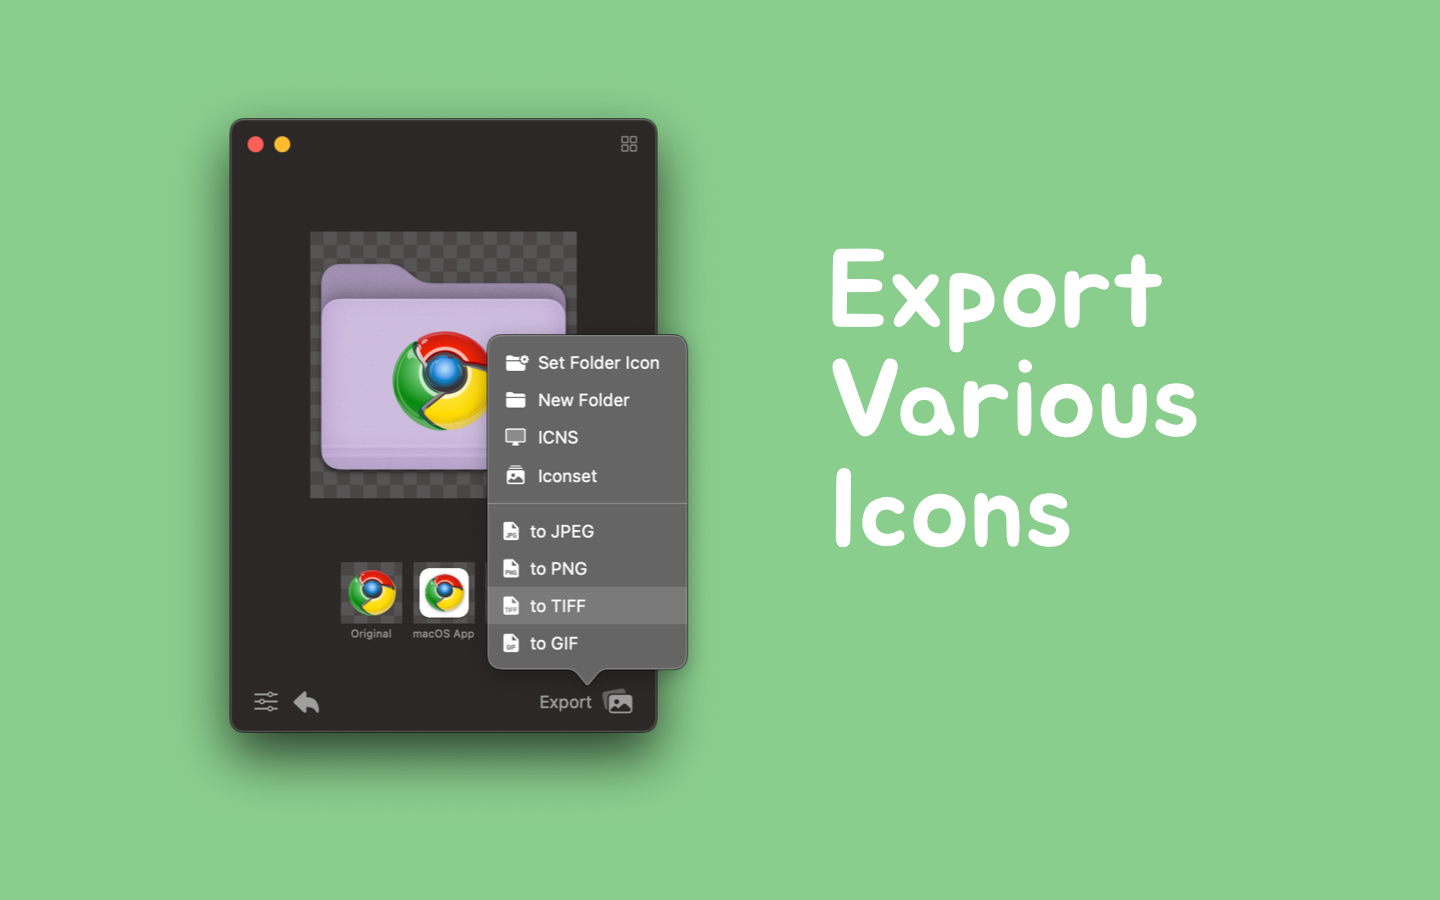
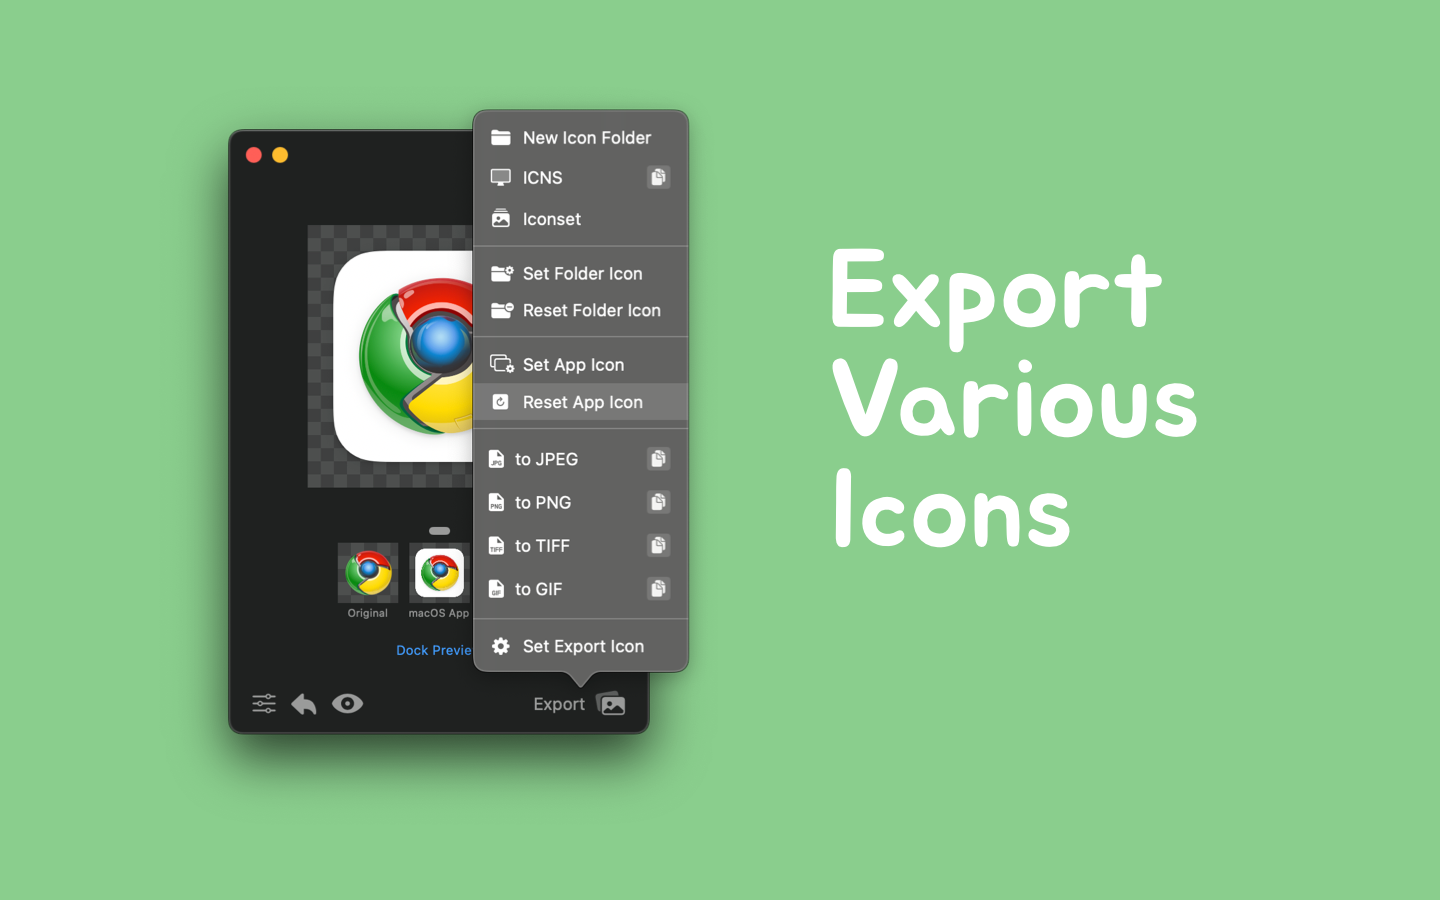
released v1.3.0

Changed region(s): [[0.1562, 0.0933, 0.5, 0.84], [0.4375, 0.4978, 0.4688, 0.56]]

diff --git a/CHANGELOG.md b/CHANGELOG.md
@@ -5,7 +5,15 @@ Changelog
   <img alt="Iconed AppStore" src="https://jaywcjlove.github.io/sb/download/macos.svg" height="51">
 </a>
 
-## [v1.2.0](https://github.com/jaywcjlove/rightmenu-master/releases)
+## [v1.3.0](https://github.com/jaywcjlove/iconed/releases/tag/v1.3.0)
+
+1. 特性: 新增设置应用图标的功能。
+
+---
+
+1. feat: add feature to set app icon.
+
+## [v1.2.0](https://github.com/jaywcjlove/iconed/releases/tag/v1.2.0)
 
 1. 特性: 添加 macOS 图标预览功能。
 2. 特性: 添加复制和导出图像功能。
